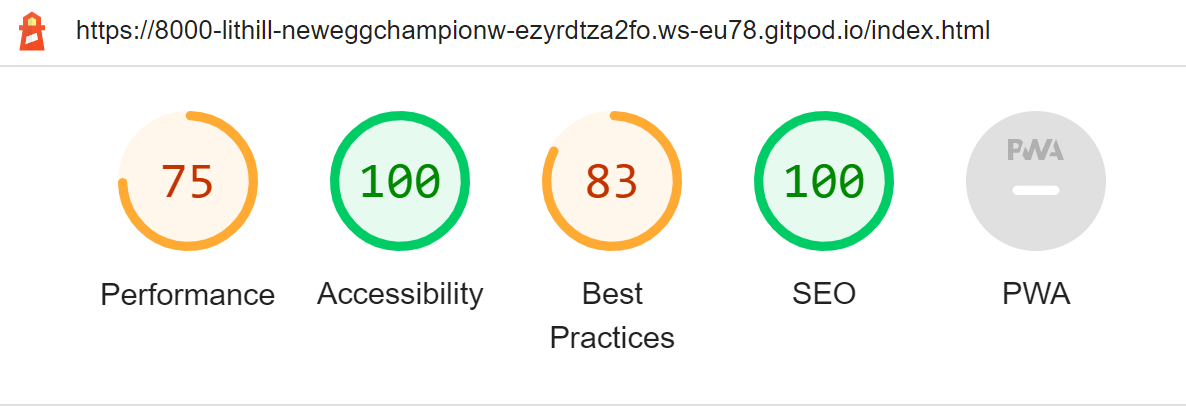
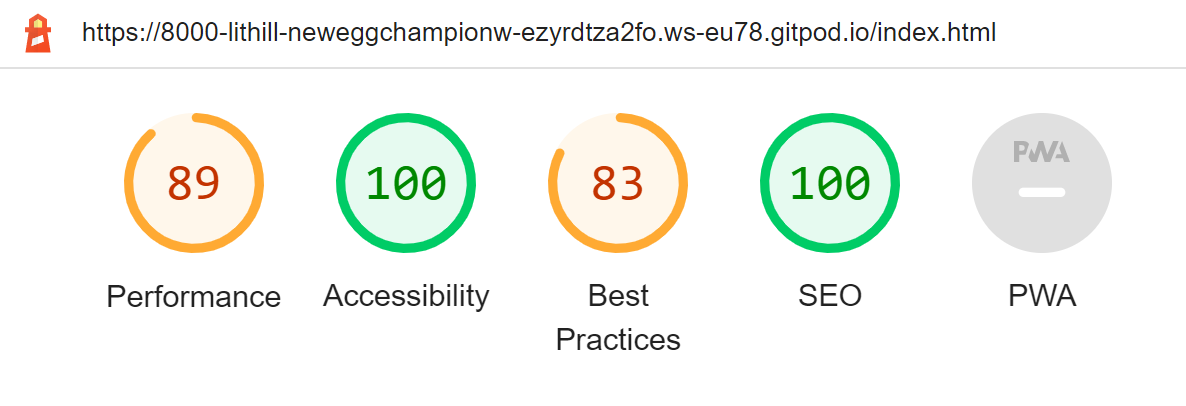
Update lighthouse scores for Index page

diff --git a/readme.md b/readme.md
@@ -574,9 +574,9 @@ Recommendations:
 As advised:
 * I compressed all of the website images
 * I changed all website image formats to webp
-* I took out all unused css code possible. However, Lighthouse does not recognise when css code is used on a different page, so it still displays it as an issue. Furthmore, using fontawesome means that Lighthouse seems to pick up on the css code of theirs that I do not use. 
+* I took out all possible unused css code 
 * Missing aria-labels were added
-* The rest of the suggestions Lighthouse gave are either outside of the scope of this assignment, or outside of my ability due to hosting on Gitpod.
+* The rest of the suggestions Lighthouse gave are either outside of the scope of this assignment, or outside of my ability due to hosting on Gitpod
 
 Please find the current Lighthouse stats below for each page.
 
